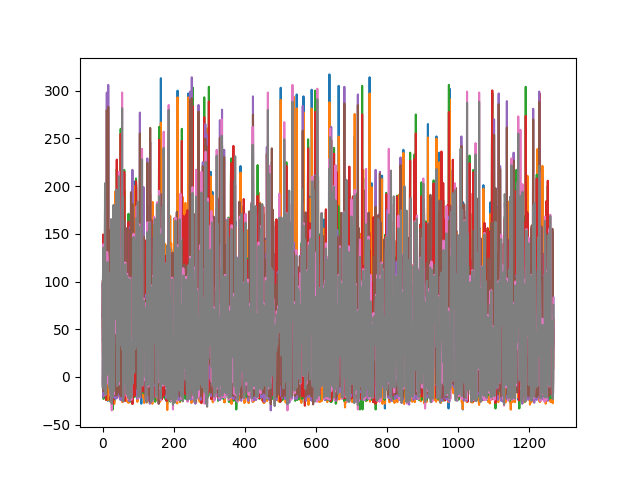
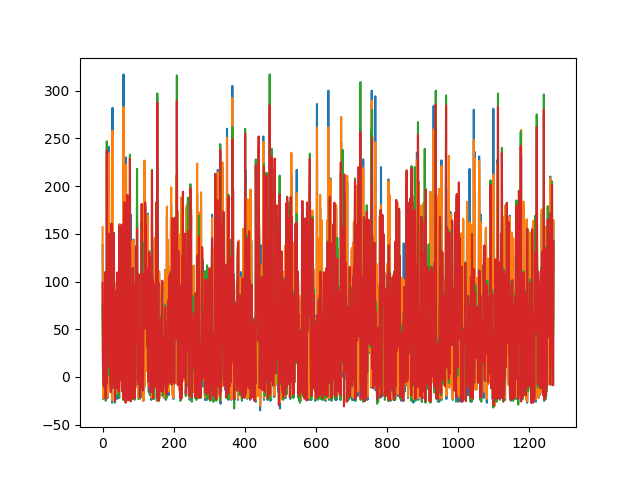
m

diff --git a/lstmForm.py b/lstmForm.py
@@ -81,24 +81,19 @@ def job():
             batch_size = X[i][12]
         print("number of batch size", batch_size)
 
-        t1 = Thread(
-            target=lstmModel,
-            args=(
-                file_train,
-                file_test,
-                know_attributes,
-                unknow_attributes[0],
-                foldername,
-                max_numdays,
-                max_afterdays,
-                epochs,
-                batch_size,
-                threshold,
-                smote,
-            ),
+        lstmModel(
+            file_train,
+            file_test,
+            know_attributes,
+            unknow_attributes[0],
+            foldername,
+            max_numdays,
+            max_afterdays,
+            epochs,
+            batch_size,
+            threshold,
+            smote,
         )
-        t1.start()
-        t1.join()
         progress(X.shape[0])
 
     # stop()

diff --git a/exportData.py b/exportData.py
@@ -76,13 +76,17 @@ def printResult(y_test, y_prd, stepDays, folderName):
 
 
 def plotResult(y_test, y_prd, imglnk):
-    try:
-        plt.plot(y_test)
-        plt.plot(y_prd)
-        plt.savefig(imglnk)
-        # plt.show()
-    except:
-        pass
+    # try:
+    #     plt.plot(y_test)
+    #     plt.plot(y_prd)
+    #     plt.savefig(imglnk)
+    #     # plt.show()
+    # except:
+    #     pass
+
+    plt.plot(y_test)
+    plt.plot(y_prd)
+    plt.savefig(imglnk)
 
 
 def output_Excel(input_detail, output_excel_path):
